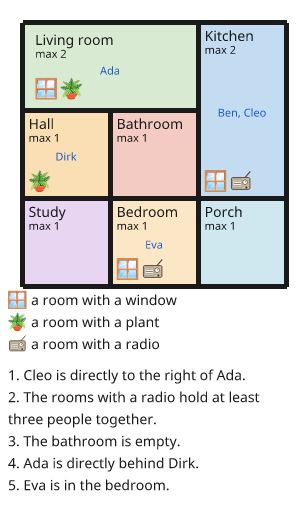
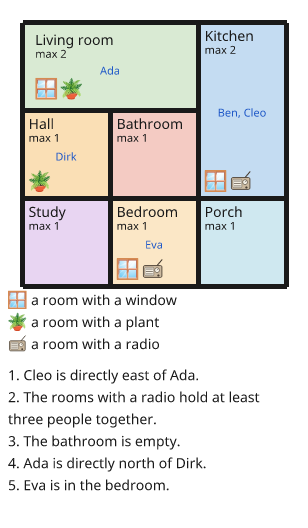
Make north the top of a room plan and use compass directions
A plan reads geographically: the top is north, so a rooms clue now says dir:north, dir:east, dir:south or dir:west (up, right, down and left stay as aliases of the same sides) and sentences read "directly north of" / "direct ten zuiden van" instead of behind and in front. The Murdoku grammar records the same convention. The rooms example picture and its clue wording, the docs image, and both Sinterklaas puzzles use it.

Changed region(s): [[0.3799, 0.8485, 0.6721, 0.9091], [0.3799, 0.697, 0.789, 0.7273]]

diff --git a/src/csp/rooms.py b/src/csp/rooms.py
@@ -4,7 +4,8 @@ The board is a plan of rooms rather than a grid of squares. Several people may
 share a room, a room may stay empty, and a room's capacity caps how many fit.
 Clues talk about rooms through their properties ("a room with a mirror"), about
 company ("was not alone"), about counts ("exactly one person in the garden")
-and about direction ("directly behind"). The people are the variables and a
+and about direction ("directly north of" — the top of the plan is north). The
+people are the variables and a
 room is a value, so every clue becomes a count or a relation over a handful of
 variables: a small model that still asks real questions.
 
@@ -53,19 +54,22 @@ from typing import Any, Protocol
 from .core import Kind, Model, Step
 from .puzzlefile import read_sections
 
-STEPS = {"up": (-1, 0), "down": (1, 0), "left": (0, -1), "right": (0, 1)}
+STEPS = {"north": (-1, 0), "south": (1, 0), "west": (0, -1), "east": (0, 1)}
+# The plan's top is north, so `up`/`down`/`left`/`right` in a clue are the same
+# sides as north/south/west/east; the compass spellings are the canonical ones.
+STEP_ALIASES = {"up": "north", "down": "south", "left": "west", "right": "east"}
 STEP_WORDS = {
     "en": {
-        "up": "directly behind",
-        "down": "directly in front of",
-        "left": "directly to the left of",
-        "right": "directly to the right of",
+        "north": "directly north of",
+        "south": "directly south of",
+        "west": "directly west of",
+        "east": "directly east of",
     },
     "nl": {
-        "up": "direct achter",
-        "down": "direct voor",
-        "left": "direct links van",
-        "right": "direct rechts van",
+        "north": "direct ten noorden van",
+        "south": "direct ten zuiden van",
+        "west": "direct ten westen van",
+        "east": "direct ten oosten van",
     },
 }
 COUNT_WORDS = {
@@ -119,7 +123,7 @@ _IN = re.compile(r"^(\S+)\s+in\s+area:(\S+)$")
 _ALONE = re.compile(r"^(\S+)\s+alone$")
 _PAIR = re.compile(r"^(\S+)\s+(together|apart)\s+(\S+)$")
 _BESIDE = re.compile(r"^(\S+)\s+beside\s+(\S+)$")
-_DIRECTION = re.compile(r"^(\S+)\s+dir:(up|down|left|right)\s+(\S+)$")
+_DIRECTION = re.compile(r"^(\S+)\s+dir:(north|south|east|west|up|down|left|right)\s+(\S+)$")
 _CHOICE = re.compile(r"^exactly\s+(\d+)\s+of\s*\((.*)\)$")
 _ROOM_LINE = re.compile(r"^(\S+)\s*:\s*(\d+)\s+(#[0-9A-Fa-f]{6})\s*(.*)$")
 
@@ -593,7 +597,7 @@ def parse_clue(line: str, puzzle: Puzzle) -> ClueType:
     if match := _BESIDE.match(line):
         return Beside(match[1], match[2])
     if match := _DIRECTION.match(line):
-        return Direction(match[1], match[2], match[3])
+        return Direction(match[1], STEP_ALIASES.get(match[2], match[2]), match[3])
     raise ValueError(f"bad room clue {line!r}")
 
 

diff --git a/tests/test_rooms.py b/tests/test_rooms.py
@@ -156,12 +156,23 @@ def test_alone_needs_one_hidden_literal_per_other_person():
 
 
 def test_a_direction_clue_needs_touching_rooms():
-    puzzle = rooms.parse(puzzle_with("Cleo dir:up Ada\n"))
-    up = rooms.Direction("Cleo", "up", "Ada")
+    puzzle = rooms.parse(puzzle_with("Cleo dir:north Ada\n"))
+    up = rooms.Direction("Cleo", "north", "Ada")
     assert up.holds({"Cleo": "a", "Ada": "c"}, puzzle)
     assert not up.holds({"Cleo": "c", "Ada": "a"}, puzzle)
     assert not up.holds({"Cleo": "a", "Ada": "a"}, puzzle)
     assert not up.holds({"Cleo": "b", "Ada": "c"}, puzzle)
+    assert puzzle.sentence(1) == "Cleo is directly north of Ada."
+
+
+def test_the_plan_top_is_north_so_compass_and_side_words_agree():
+    """`dir:up` and `dir:north` are one side, and the compass word is the canonical one."""
+    puzzle = rooms.parse(puzzle_with("Cleo dir:up Ada\n"))
+    assert puzzle.clues[0] == rooms.Direction("Cleo", "north", "Ada")
+    assert rooms.format_clue(puzzle.clues[0]) == "Cleo dir:north Ada"
+    assert puzzle.sentence(1) == "Cleo is directly north of Ada."
+    dutch = rooms.parse(puzzle_with("Cleo dir:right Ada\n").replace("Language: en", "Language: nl"))
+    assert dutch.sentence(1) == "Cleo zit direct ten oosten van Ada."
 
 
 def test_render_names_every_room_with_its_capacity_and_occupants():

diff --git a/RELEASE_NOTES.md b/RELEASE_NOTES.md
@@ -13,6 +13,7 @@
     * The model names its own constraints in the puzzle's language, so a Dutch room puzzle's `--show-model`, `--step` and worked solution read "iedereen staat in één kamer", "Tjitske en Tim delen een kamer" and "een aanwijzing" instead of English. The picture sizes and wraps a room's property icons so four of them still fit a one-cell room, clips each room's drawing to its own cells, wraps a long room name, and keys every property; `fossielen`, `keuken`, `buiten` and `muizenplek` gained catalogue icons.
     * `--docx` gives a rooms puzzle its own page: title, intro, rules in the puzzle's language, the floor plan with a one-line icon key, the numbered clues as text and the question in a box; the solution page shows the solved plan, a "who is where" line, the worked solution and the reveal. `rooms_picture` gained `clue_lines` and `legend` switches so the plan is drawn once without repeating what the page already says.
     * The web bundle carries the intro, the numbered clues, the property key with its icons and the question, and its board is the plan alone (still with cell ids), so the player shows them as text beside the board instead of a tall picture; the note says it is read-only rather than broken.
+    * The top of a room plan, and of a Murdoku board, is north: `dir:north`, `dir:east`, `dir:south` and `dir:west` are the canonical spellings, with `dir:up`, `dir:right`, `dir:down` and `dir:left` as the same sides, and sentences read "directly north of" / "direct ten zuiden van".
 >>>>>>> origin/rooms-family
 * `Key:` clues are a checked contract: `tests/test_key_clues.py` proves for every published Murdoku that removing a declared key clue costs the puzzle its unique solution or its deduction, and `csp.clue_search.without_keys` gives tooling the puzzle without its `Key:` block. `thin` already kept keyed clues; authors now get the necessity check for free by declaring them.
 * Documentation refactor (#247): a shorter README, dedicated CLI, Murdoku grammar and web-interface pages, a compact agent-facing collection reference, and both authoring skills split into short entry points with on-demand `references/` files.

diff --git a/docs/murdoku-grammar.md b/docs/murdoku-grammar.md
@@ -123,7 +123,10 @@ containment, overlap, adjacency and role membership.
 Directional operators are `dir:left`, `dir:right`, `dir:up`, `dir:down`,
 their vertical-plus-horizontal combinations, `dir:diagonal`, `dir:rows`,
 `dir:cols`, `dir:manhattan`, `dir:king`, `dir:euclidean`, `dir:areas`,
-`dir:knight`, `dir:nearest` and `dir:furthest`. An optional `= n`, `<= n`
+`dir:knight`, `dir:nearest` and `dir:furthest`. **The top of the board is
+north**, so `dir:up` is north, `dir:right` east, `dir:down` south and
+`dir:left` west (the `rooms` family uses the compass names directly).
+An optional `= n`, `<= n`
 or `>= n` measures the gap where supported; a compound direction applies
 the measure to each axis of the same cell pair. Nearest and furthest use
 strict comparisons against other people outside the target set, so a tie

diff --git a/docs/model-and-puzzle-formats.md b/docs/model-and-puzzle-formats.md
@@ -259,7 +259,7 @@ exactly 1 of (Ada in area:e; Ben in area:e)
 | `X alone` / `not (X alone)` | X shares a room with nobody, or with at least one other |
 | `X together Y` / `X apart Y` | X and Y do or do not share a room |
 | `exactly n of (clause; clause; …)` | how many of these room clauses hold |
-| `X dir:up/down/left/right Y` | X's room touches Y's in that direction; up is the top of the plan |
+| `X dir:north/south/east/west Y` | X's room touches Y's in that direction; the top of the plan is north, and `dir:up`, `dir:down`, `dir:left` and `dir:right` are the same sides |
 
 The variable values are room labels, so `--step` and the worked solution read as rooms.
 
